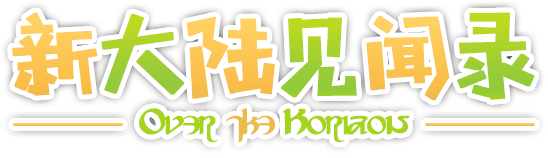
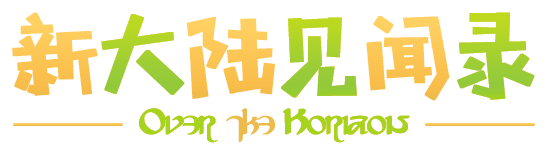
dark mode update

diff --git a/docs/.vuepress/theme/global-components/HomePage.vue b/docs/.vuepress/theme/global-components/HomePage.vue
@@ -177,6 +177,9 @@ $c = linear-gradient(to right, #4c5fbf 0%, #44aadf 50%, #ff9933 100%)
   h1
     flex auto
     font-size 0
+    img
+      background-image url('/images/bg.png')
+      background-size contain
   .desc
     padding-left 30px
     font-size .8em
@@ -292,6 +295,9 @@ $c = linear-gradient(to right, #4c5fbf 0%, #44aadf 50%, #ff9933 100%)
         font-size 1em
         padding 5px 10px
 .dark /* 暗色模式 */
+  h1
+    img
+      background-image url('/images/bgdk.png')
   .mntab
     background-image linear-gradient(0deg, #000000bf,#000000bf), url(/images/bg/bgmoon.jpg)
     box-shadow 0 0 10px #00000059
